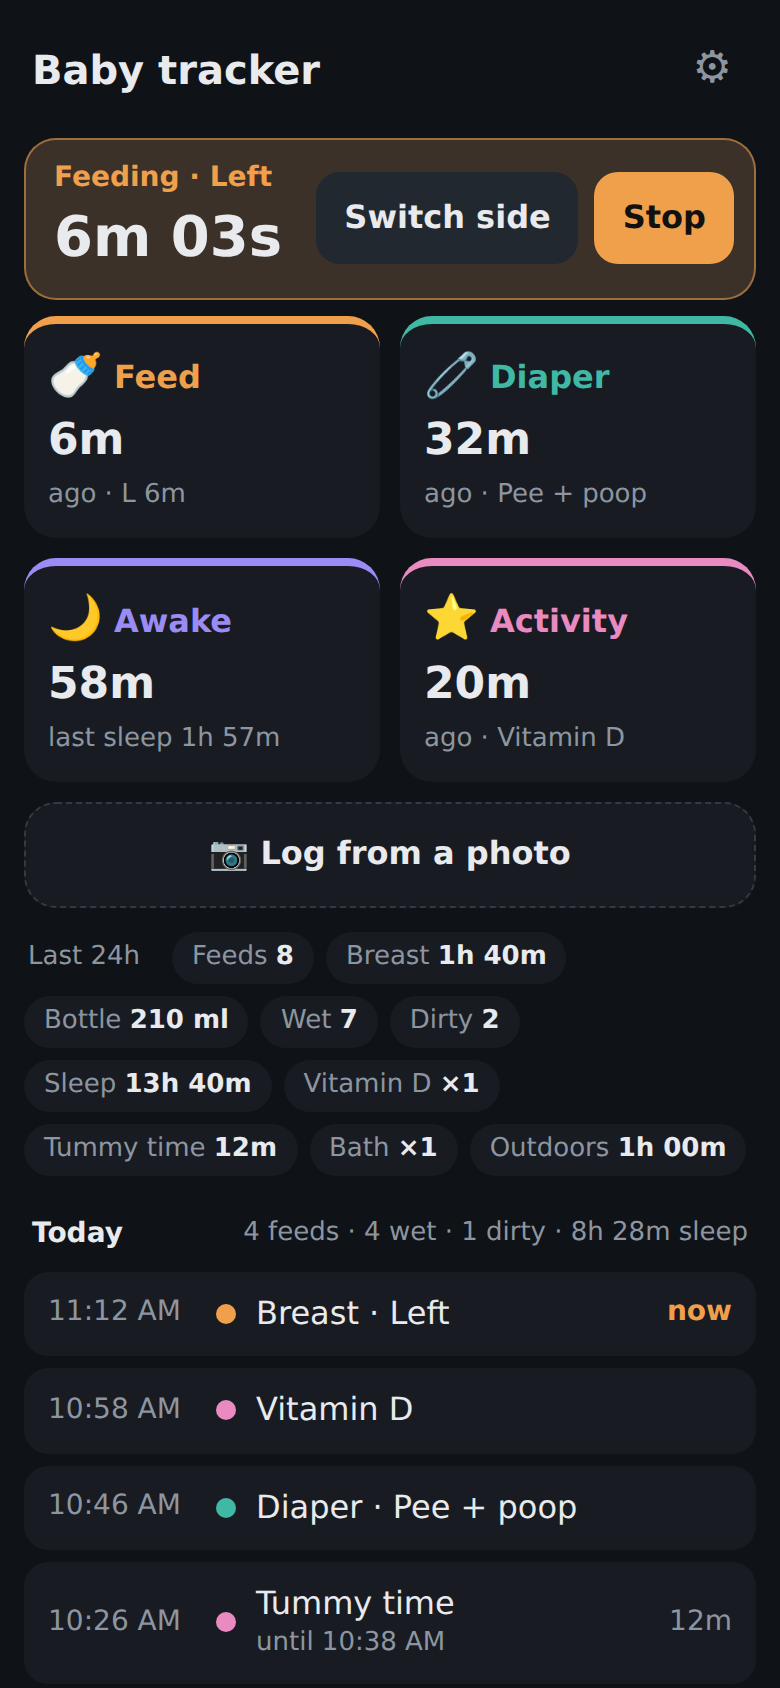
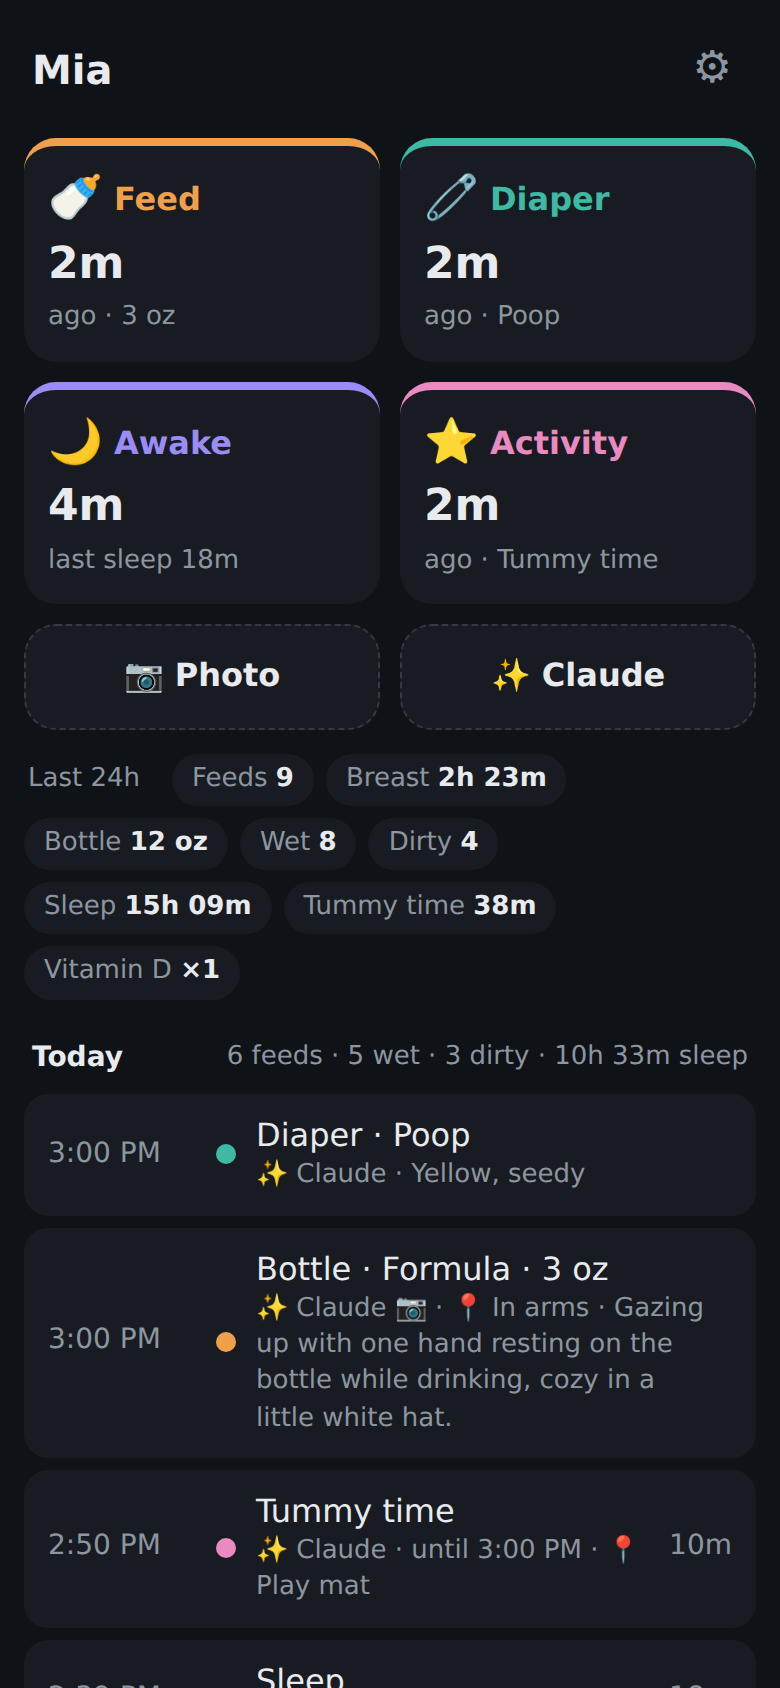
Final proof pass: allow 3 turns for proposals; new screenshots
A full 38-case eval on the final code caught one "Reached maximum number of
turns (1)" on a 7-hour-old sleeping photo: Claude Code sometimes needs a second
turn to resubmit a structured answer. Proposals now allow up to 3 turns; that
case passed 3/3 afterwards and the full eval is 38/38 (median 3.4 s).

README: new screenshots from a live run on demo data (home, photo, text, ask,
plus nap / duration / fix / report), with photo credits.

Claude-Session: https://claude.ai/code/session_01LXjGSb6iR7VQiJryrgxzK8

diff --git a/propose_ai.py b/propose_ai.py
@@ -733,8 +733,10 @@ def propose(*, text: str | None, jpeg: bytes | None, photo_taken_at: dt.datetime
               activity_names=activity_names, baby_name=baby_name, unit=unit)
     content = [claude_ai.image_block(jpeg)] if jpeg is not None else []
     content.append(claude_ai.text_block(build_context(ctx, text)))
+    # max_turns=3: a structured answer is usually one turn, but Claude Code sometimes needs another
+    # to resubmit it (1 failed ~1 in 38 eval runs with "Reached maximum number of turns").
     r = claude_ai.run_claude(content, system_prompt=SYSTEM_PROMPT, model=MODEL, timeout_s=TIMEOUT_S,
-                             output_schema=OUTPUT_SCHEMA, effort=EFFORT)
+                             max_turns=3, output_schema=OUTPUT_SCHEMA, effort=EFFORT)
     out = r.structured if isinstance(r.structured, dict) else {}
     items = out.get("items") if isinstance(out.get("items"), list) else []
     changes = []

diff --git a/README.md b/README.md
@@ -6,16 +6,20 @@ about the log. One Python server, one HTML page, one SQLite file. Built to be fa
 one-handed at 3 a.m. and easy for another program to analyze later.
 
 <p align="center">
-  <img src="docs/screenshots/home.png" width="250" alt="Home screen: running feed timer, quick tiles, last-24h summary, timeline">
+  <img src="docs/screenshots/home.png" width="190" alt="Home screen: quick tiles, Photo and Claude buttons, last-24h summary, timeline with entries Claude filled in">
   &nbsp;
-  <img src="docs/screenshots/photo.png" width="250" alt="Log from a photo: Claude suggests Feeding, 97% sure">
+  <img src="docs/screenshots/photo.png" width="190" alt="From a photo: Claude proposes a finished bottle entry with place and note, ready to save">
   &nbsp;
-  <img src="docs/screenshots/feed.png" width="250" alt="Feed sheet: side, timer or already done, quick time chips">
+  <img src="docs/screenshots/text.png" width="190" alt="Tell Claude: one sentence becomes two proposed entries, Save 2">
+  &nbsp;
+  <img src="docs/screenshots/ask.png" width="190" alt="Ask your log: when did Mia last poop, and a follow-up">
 </p>
-<p align="center"><sub>Demo data. Photo in the middle screenshot: "Baby and baby milk bottle, Baby feeding, Moscow, Russia"
-by Vyacheslav Argenberg, <a href="https://creativecommons.org/licenses/by/4.0/">CC BY 4.0</a>, via
-<a href="https://commons.wikimedia.org/wiki/File:Baby_and_baby_milk_bottle,_Baby_feeding,_Moscow,_Russia.jpg">Wikimedia Commons</a>
-(resized, shown inside an app screenshot).</sub></p>
+<p align="center"><sub>Demo data. Photos in the screenshots, all via Wikimedia Commons, resized and shown inside app screenshots:
+"<a href="https://commons.wikimedia.org/wiki/File:Baby_and_baby_milk_bottle,_Baby_feeding,_Moscow,_Russia.jpg">Baby and baby milk bottle, Baby feeding, Moscow, Russia</a>"
+and "<a href="https://commons.wikimedia.org/wiki/File:Sleeping_baby,_Moscow,_Russia.jpg">Sleeping baby, Moscow, Russia</a>"
+by Vyacheslav Argenberg, <a href="https://creativecommons.org/licenses/by/4.0/">CC BY 4.0</a>;
+"<a href="https://commons.wikimedia.org/wiki/File:Baby_on_mat.jpg">Baby on mat</a>" by 4455out,
+<a href="https://creativecommons.org/licenses/by-sa/4.0/">CC BY-SA 4.0</a>.</sub></p>
 
 - **App URL:** `https://<your-vm>.exe.xyz:8420/` on an [exe.dev](https://exe.dev) VM (private: needs an exe.dev login with access to the VM). Keep it private; don't run `share set-public`.
 - **Data:** `data/baby.db` (SQLite). Daily snapshots in `data/backups/` (last 90 kept).
@@ -31,6 +35,10 @@ tap Save on the review screen, and every proposal can be edited there first.
 | **📷 Photo** | Take or pick a photo | Proposes the finished entry: breast or bottle, formula or breast milk, ml read off the bottle's markings, pee/poop with stool color and texture, where the baby is (crib, car seat, play mat, ...), and a note on what the baby is doing. The photo's capture time is the entry time. |
 | **✨ Claude → Log it** | Type or dictate (keyboard mic): "4 oz formula at 3, then she slept till 5 and had a poopy diaper" | Proposes all the entries, or edits to existing ones ("she woke up at 4:10", "the last feed was the right side") |
 | **✨ Claude → Ask** | "When did she last poop?", "Is she eating more than last week?", "Summary for the 2-month checkup" | Queries the log itself (read-only) and answers, or writes a short report |
+
+More screenshots: [ending a nap from a photo](docs/screenshots/nap.png), [an old photo that needs a
+duration](docs/screenshots/duration.png), [fixing an entry by text](docs/screenshots/fix.png), [a summary
+for the doctor](docs/screenshots/report.png), [the feed sheet](docs/screenshots/feed.png).
 
 Claude sees the last ~48 h of the log, so it picks the right action: a photo of the baby awake
 while a nap timer runs proposes ending the nap at the photo's time; a photo of the baby asleep
